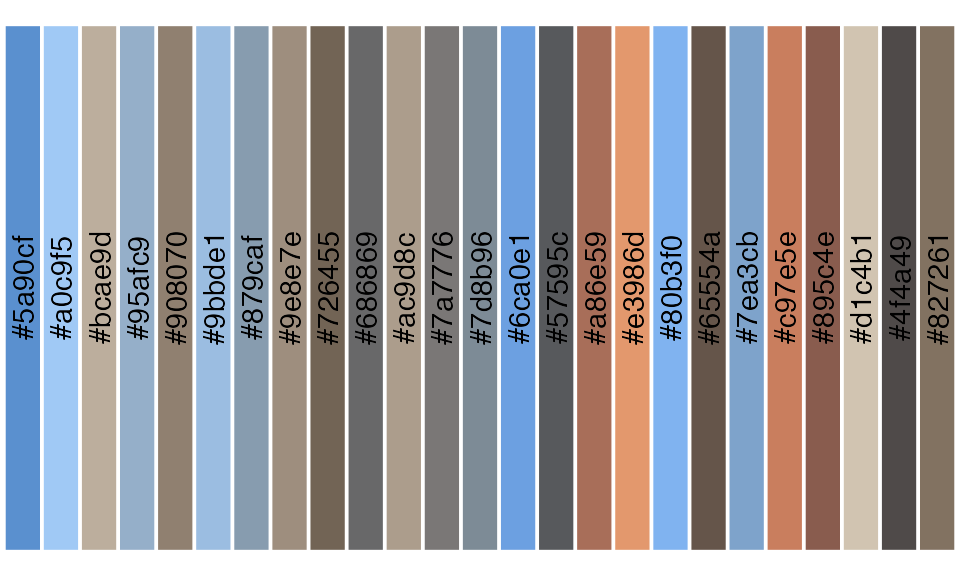
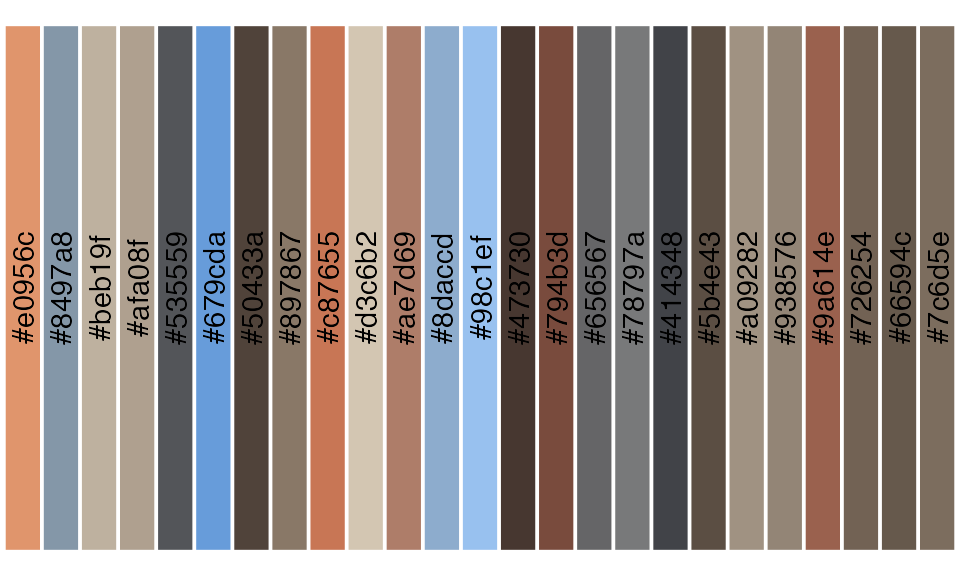
Rebuilt pkgdown site with updated NEWS file

diff --git a/docs/articles/lterpalettefinder.html b/docs/articles/lterpalettefinder.html
@@ -118,10 +118,10 @@ identified by k-means clustering on the red, green, blue bands extracted
 from the image) stored as hexadecimal codes.</p>
 <div class="sourceCode" id="cb3"><pre class="downlit sourceCode r">
 <code class="sourceCode R"><span><span class="va">fire_palette</span></span>
-<span><span class="co">#&gt;  [1] "#5a90cf" "#a0c9f5" "#bcae9d" "#95afc9" "#908070" "#9bbde1" "#879caf"</span></span>
-<span><span class="co">#&gt;  [8] "#9e8e7e" "#726455" "#686869" "#ac9d8c" "#7a7776" "#7d8b96" "#6ca0e1"</span></span>
-<span><span class="co">#&gt; [15] "#57595c" "#a86e59" "#e3986d" "#80b3f0" "#65554a" "#7ea3cb" "#c97e5e"</span></span>
-<span><span class="co">#&gt; [22] "#895c4e" "#d1c4b1" "#4f4a49" "#827261"</span></span></code></pre></div>
+<span><span class="co">#&gt;  [1] "#e0956c" "#8497a8" "#beb19f" "#afa08f" "#535559" "#679cda" "#50433a"</span></span>
+<span><span class="co">#&gt;  [8] "#897867" "#c87655" "#d3c6b2" "#ae7d69" "#8daccd" "#98c1ef" "#473730"</span></span>
+<span><span class="co">#&gt; [15] "#794b3d" "#656567" "#78797a" "#414348" "#5b4e43" "#a09282" "#938576"</span></span>
+<span><span class="co">#&gt; [22] "#9a614e" "#726254" "#66594c" "#7c6d5e"</span></span></code></pre></div>
 </div>
 <div class="section level3">
 <h3 id="viewing-the-palette">Viewing the Palette<a class="anchor" aria-label="anchor" href="#viewing-the-palette"></a>

diff --git a/docs/news/index.html b/docs/news/index.html
@@ -50,7 +50,9 @@
     <div class="section level2">
 <h2 class="pkg-version" data-toc-text="1.0.0.9000" id="lterpalettefinder-version-1009000">lterpalettefinder Version 1.0.0.9000<a class="anchor" aria-label="anchor" href="#lterpalettefinder-version-1009000"></a></h2>
 <p>Development version of <code>lterpalettefinder</code> following version 1.0.0. Changes to the package will be listed here as they are created.</p>
-<ul><li>LTER acronym (Long Term Ecological Research) defined in README and <code>palette_find</code> function documentation.</li>
+<ul><li>Fixed issue where <code>palette_extract</code> failed for images with fewer than 25 colors</li>
+<li>Tweaked <code>palette_extract</code> handling of exclusion of very dark colors to avoid accidental removal of colors with very low values in two RGB bands but high value in the third</li>
+<li>LTER acronym (Long Term Ecological Research) defined in README and <code>palette_find</code> function documentation</li>
 </ul></div>
     <div class="section level2">
 <h2 class="pkg-version" data-toc-text="1.0.0" id="lterpalettefinder-version-100">lterpalettefinder Version 1.0.0<a class="anchor" aria-label="anchor" href="#lterpalettefinder-version-100"></a></h2><p class="text-muted">CRAN release: 2022-12-06</p>

diff --git a/docs/authors.html b/docs/authors.html
@@ -71,14 +71,14 @@
       <h2 id="citation">Citation</h2>
       <p><small class="dont-index">Source: <a href="https://github.com/lter/lterpalettefinder/blob/HEAD/DESCRIPTION" class="external-link"><code>DESCRIPTION</code></a></small></p>
 
-      <p>Lyon N (2022).
+      <p>Lyon N (2023).
 <em>lterpalettefinder: Extract Color Palettes from Photos and Pick Official LTER Palettes</em>.
 R package version 1.0.0.9000. 
 </p>
       <pre>@Manual{,
   title = {lterpalettefinder: Extract Color Palettes from Photos and Pick Official LTER Palettes},
   author = {Nicholas J Lyon},
-  year = {2022},
+  year = {2023},
   note = {R package version 1.0.0.9000},
 }</pre>
     </div>
